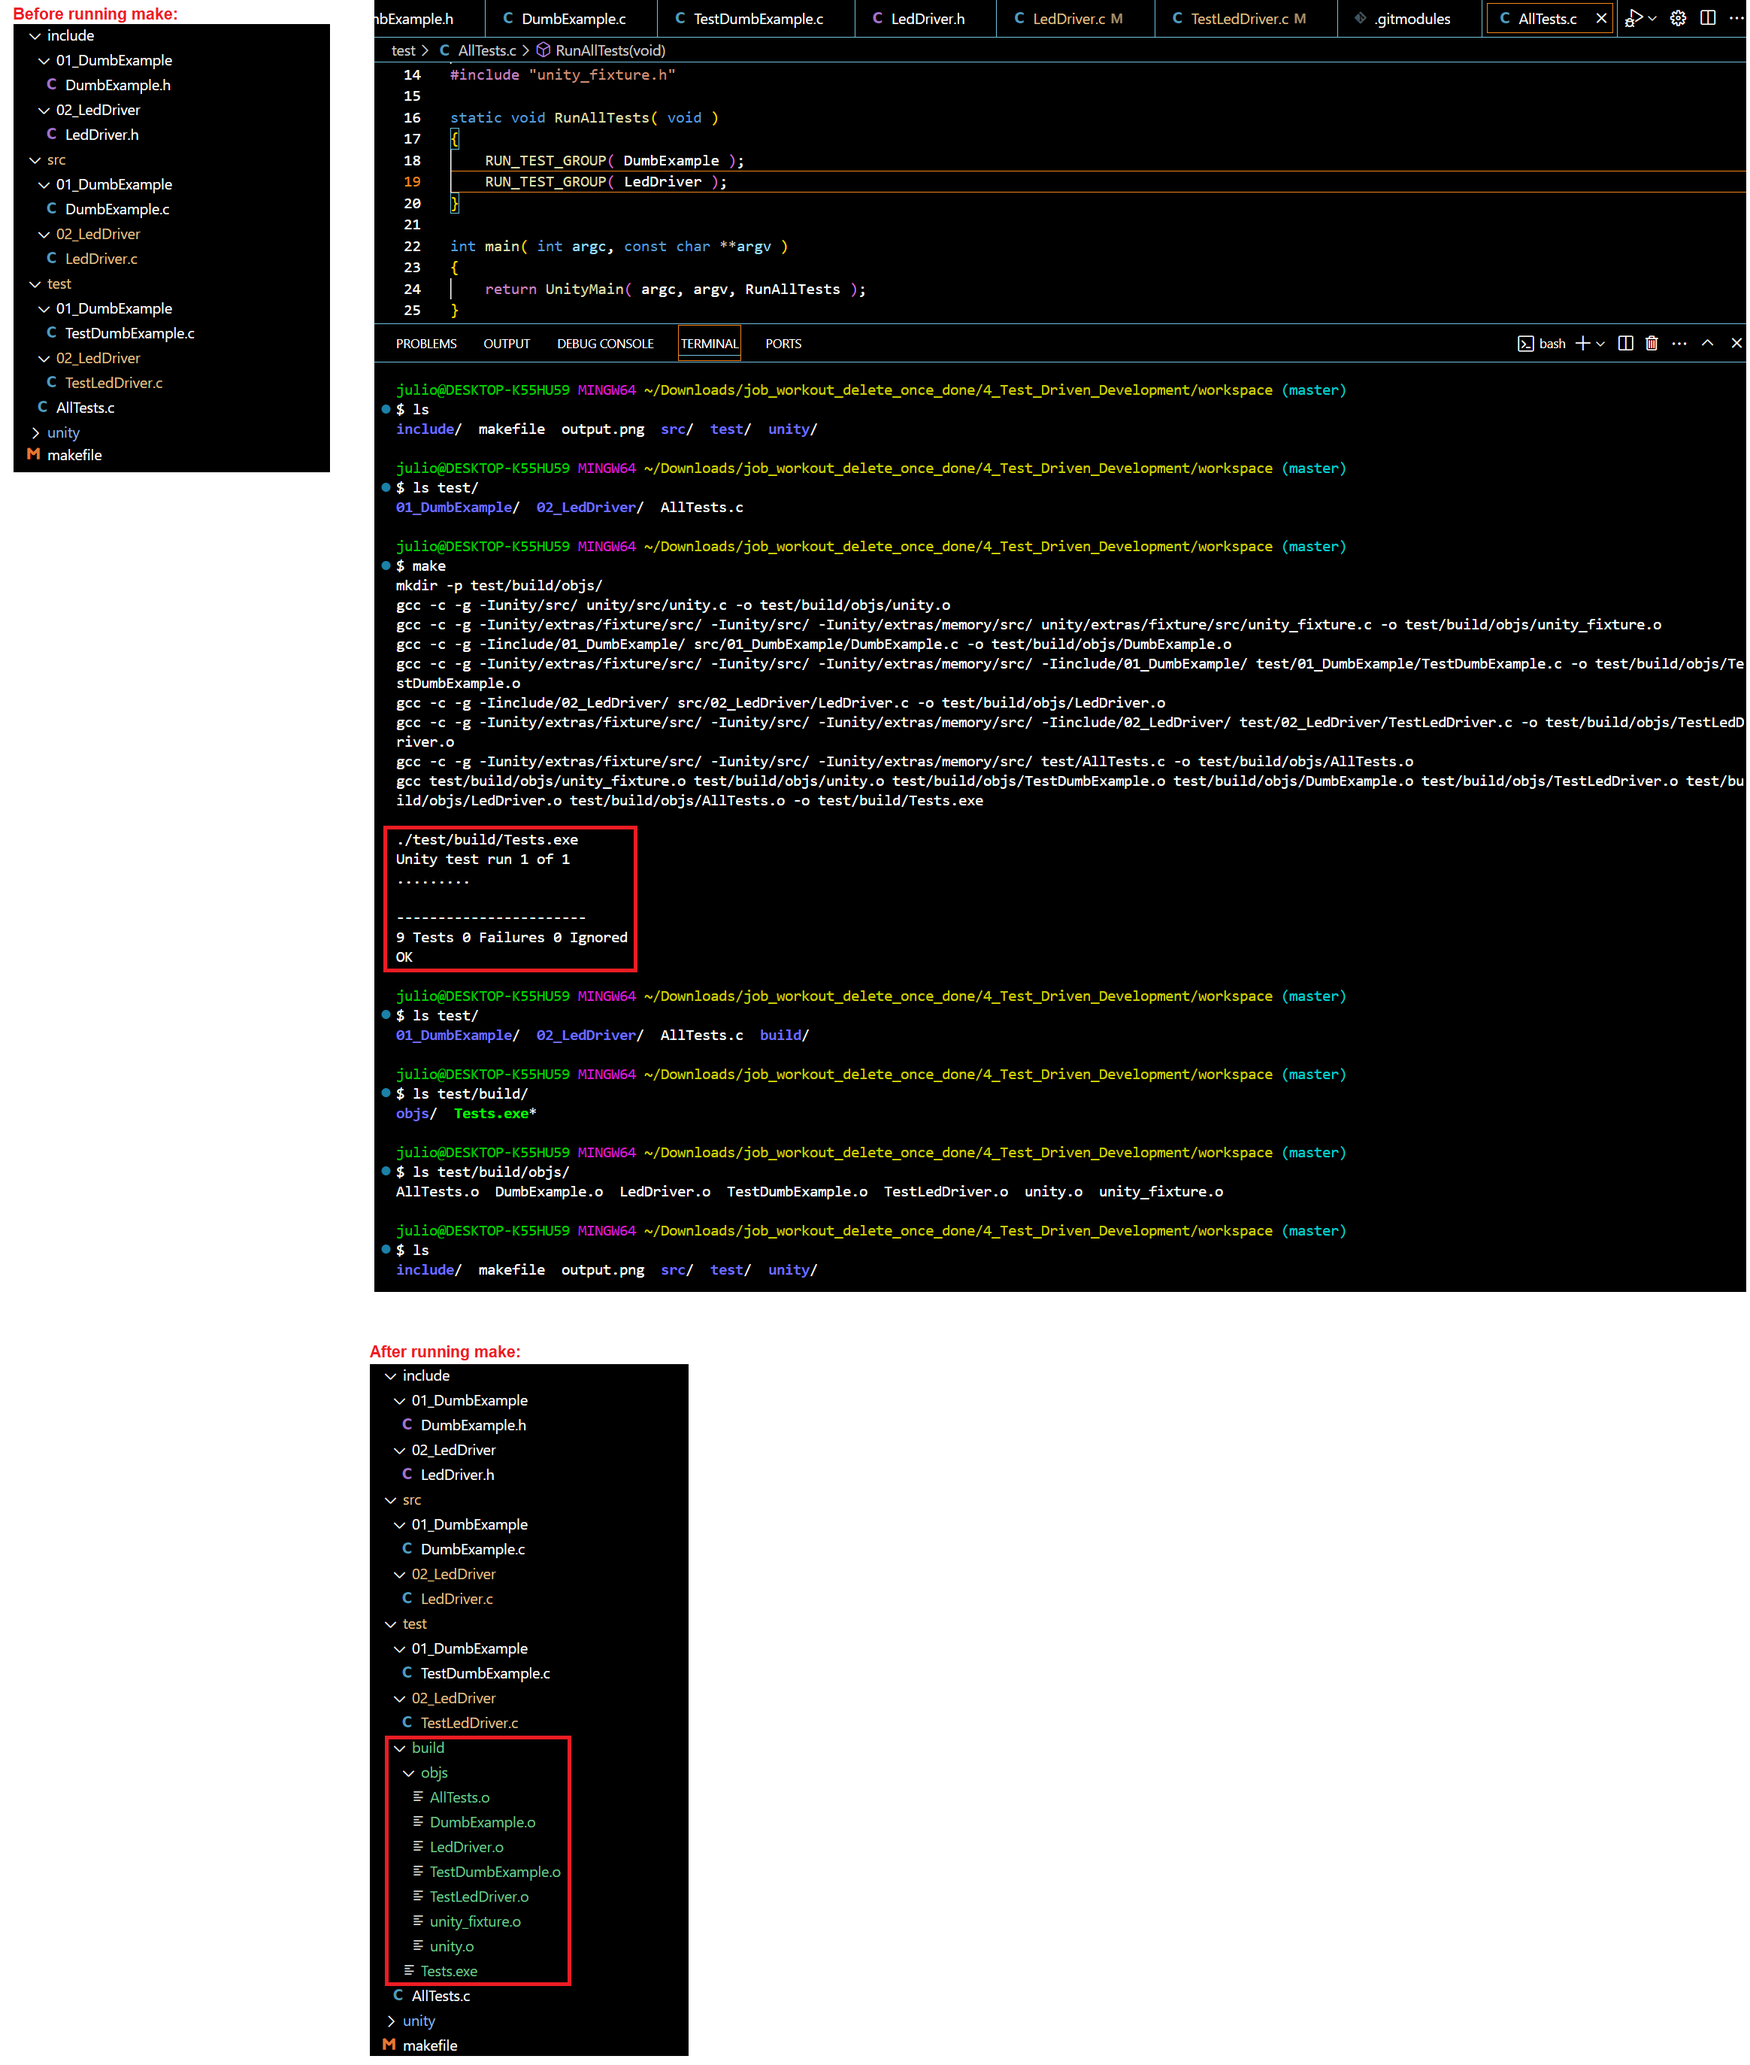
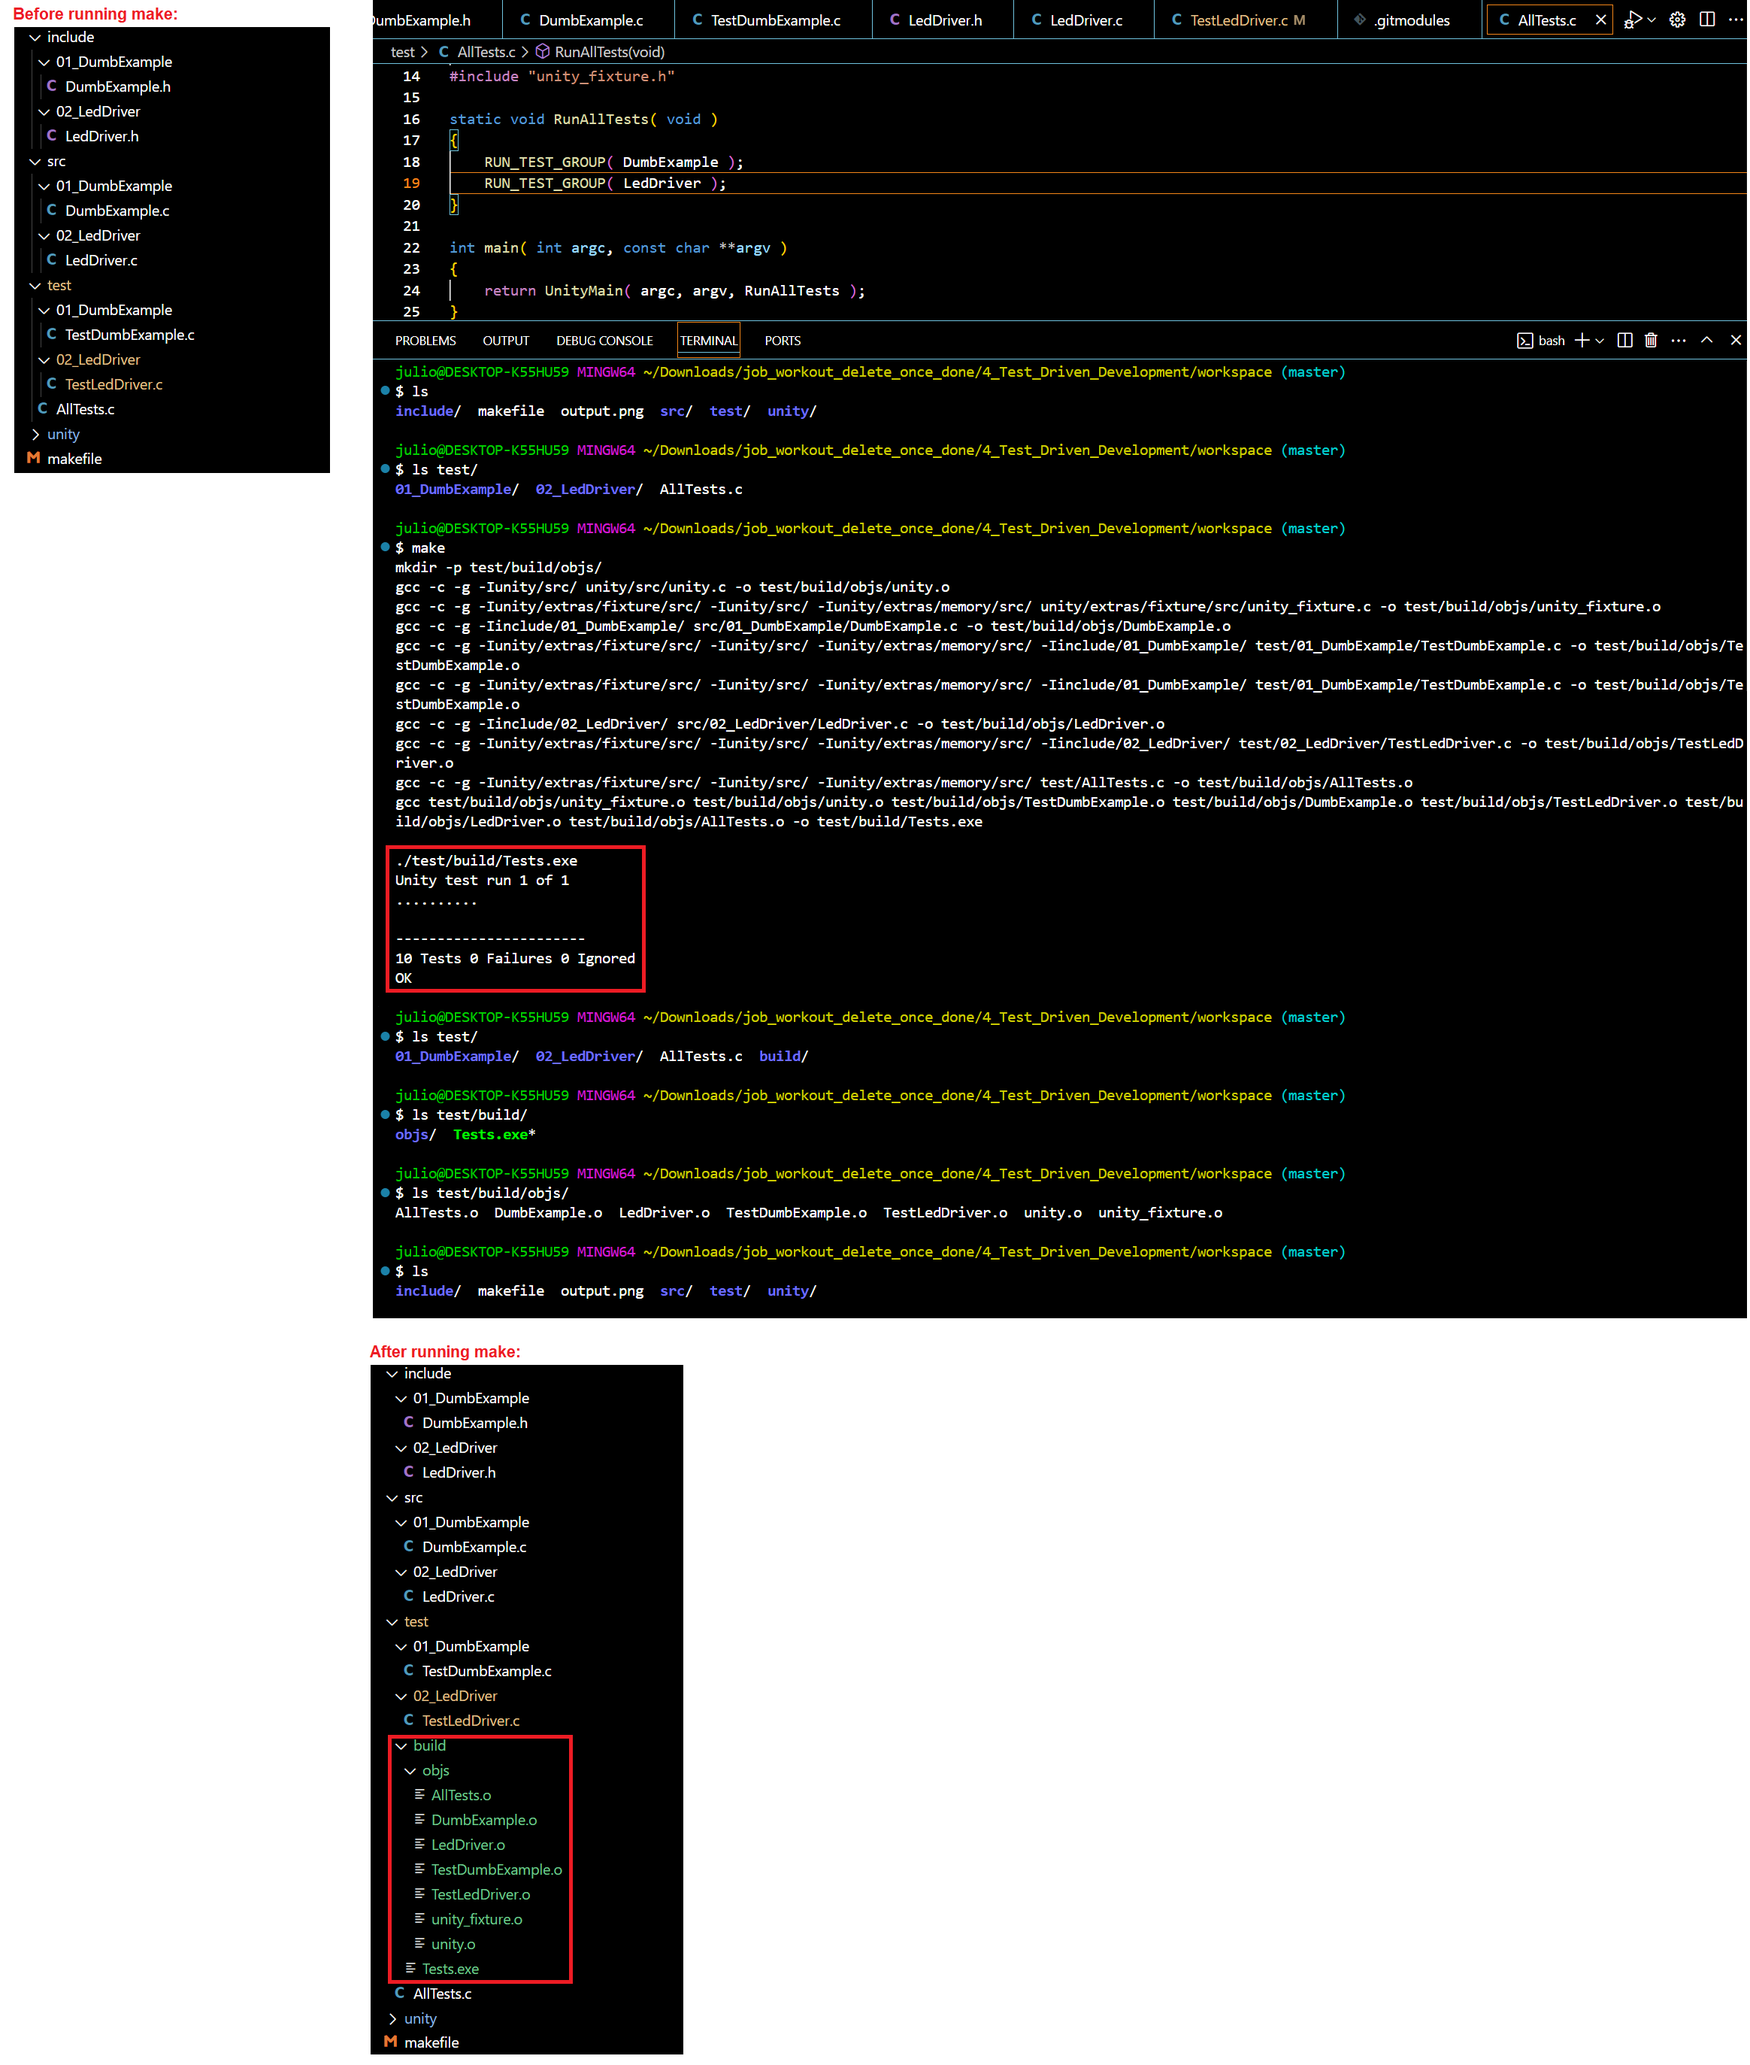
Add LedDriver UpperAndLowerBounds test for LedDriver_TurnOn()

diff --git a/test/02_LedDriver/TestLedDriver.c b/test/02_LedDriver/TestLedDriver.c
@@ -146,6 +146,17 @@ TEST( LedDriver, LedMemoryIsNotReadable )
    TEST_ASSERT_EQUAL_HEX16( 0x80, virtualLeds );
 }
 
+/* TEST 8 */
+TEST( LedDriver, UpperAndLowerBounds )
+{
+   /* turn on both LEDs 1 and 16 */
+   LedDriver_TurnOn( 1 );
+   LedDriver_TurnOn( 16 );
+
+   /* check that both LEDs 1 and 16 are on */
+   TEST_ASSERT_EQUAL_HEX16( 0x8001, virtualLeds );
+}
+
 TEST_GROUP_RUNNER( LedDriver )
 {
    /* TEST 1 */
@@ -168,4 +179,7 @@ TEST_GROUP_RUNNER( LedDriver )
 
    /* TEST 7 */
    RUN_TEST_CASE( LedDriver, LedMemoryIsNotReadable );
+
+   /* TEST 8 */
+   RUN_TEST_CASE( LedDriver, UpperAndLowerBounds );
 }
